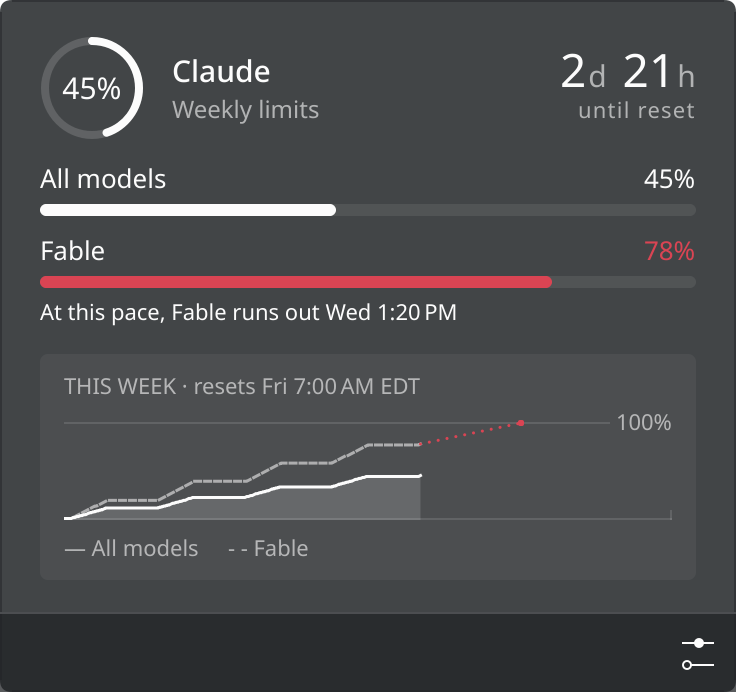
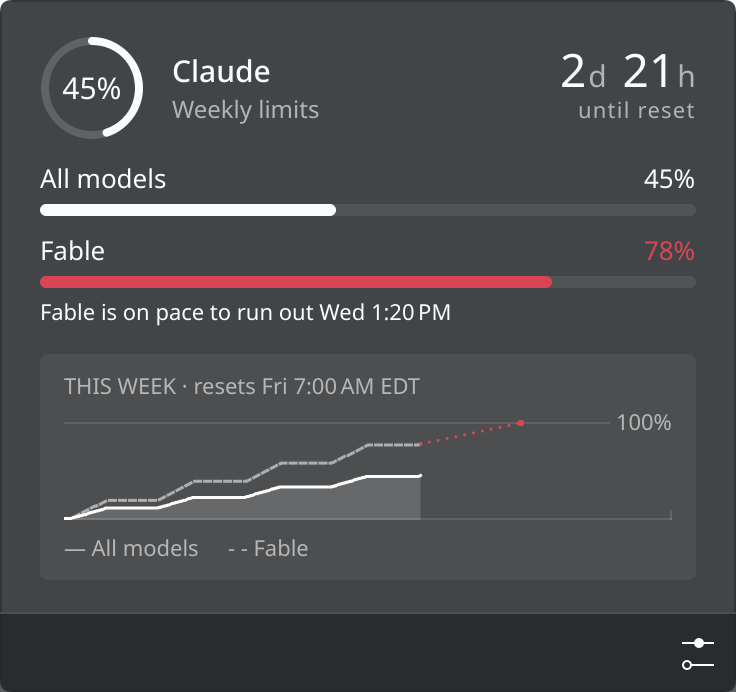
docs: describe the review fixes in the changelog and pictures
The 0.3.0 changelog now says rates hold their width like the other items,
so an idle disk at the end leaves the usual gap; drops the smaller unit
letters from the panel countdown; quotes the "on pace to" sentences; and
notes the busy indicator for top processes. The README's panel and Claude
pictures are rendered again for the countdown's units and the new pace
sentence, and the Claude picture's description follows the wording.
popups.png rendered the same and stays as it was.

Changed region(s): [[0.0625, 0.4249, 0.625, 0.4855]]

diff --git a/CHANGELOG.md b/CHANGELOG.md
@@ -13,9 +13,10 @@ follows [Semantic Versioning](https://semver.org/).
 - A Claude or Codex ring turns red when its weekly limit is on pace to run
   out before the reset, at the rate it has been used so far; the inner ring
   does the same for its model's limit. The popup says where the week is
-  heading in one sentence: when a limit runs out at this pace, when one was
-  reached, or how much of the limit the week will use. It appears from a
-  day into the week, or at once for a limit that is running out.
+  heading in one sentence, such as "On pace to use 80% by the reset",
+  "Fable is on pace to run out Tue 3:30 AM" or "Limit reached Sun 3:00 PM".
+  It appears from a day into the week, or at once for a limit that is
+  running out.
 - The week graph in the Claude and Codex popup has a line at 100%, a floor,
   a tick at the reset and, for the limit the pace sentence says runs out, a
   line of red dots to where it would reach 100%. A single reading shows as
@@ -33,11 +34,14 @@ follows [Semantic Versioning](https://semver.org/).
   instead of keeping room for their widest readings. When a reading gains a
   character the items after it move at once; when it loses one they wait
   three minutes, so a value that keeps changing width doesn't shuffle the
-  panel. Rates keep their widest room at the end of the widget, so they
-  never move the widgets after it.
+  panel. Rates do the same, so an idle disk at the end of the widget leaves
+  the usual gap after it.
 - The panel countdown shows the days alone ("6d") until the last day, then
-  hours and minutes, with smaller unit letters. It turns red at 100%, where
-  it says how long the limit stays reached.
+  hours and minutes ("23h 5m"). It turns red at 100%, where it says how
+  long the limit stays reached.
+- Top processes show a busy indicator until they are read. The CPU list,
+  which needs two scans, fills in about two seconds after its popup opens,
+  where it could take four.
 - Popup numbers and the ring's centre percentage use the theme's font with
   figures of even width instead of a monospace font, which left gaps around
   the decimal point. Units are smaller, and °C and °F sit against the
@@ -48,10 +52,10 @@ follows [Semantic Versioning](https://semver.org/).
   move into its captions.
 - Temperature sensors have plain names: chip, chiplet, hotspot and memory
   instead of Tctl, Tccd, junction and mem.
-- The Claude and Codex popup sets its countdown's units smaller, like the
-  panel's. With one limit it shows no bars, since the ring gives the
-  number, and reads "Weekly limit". The week graph loses its day lines,
-  half line and even-pace diagonal.
+- The Claude and Codex popup sets its countdown's units smaller than its
+  digits; the panel's stay the size of its digits. With one limit it shows
+  no bars, since the ring gives the number, and reads "Weekly limit". The
+  week graph loses its day lines, half line and even-pace diagonal.
 - Popups line up their content on one edge and their headers on shared
   baselines, with even padding in tiles and matching dividers. The load
   average shows its three numbers evenly spaced, the network header's

diff --git a/README.md b/README.md
@@ -92,7 +92,7 @@ scripts/install.sh
 
 ## Claude and Codex
 
-![The Claude popup: the weekly limit, the Fable limit in red with a sentence saying when it runs out at this pace, and a graph of this week's usage with red dots from the Fable line to where it reaches 100%](docs/usage.png)
+![The Claude popup: the weekly limit, the Fable limit in red with a sentence saying when it is on pace to run out, and a graph of this week's usage with red dots from the Fable line to where it reaches 100%](docs/usage.png)
 
 Turn them on under *Configure Ringside… → Panel Items*. Each shows while its
 command-line tool is signed in on this machine; if one doesn't appear, its row
